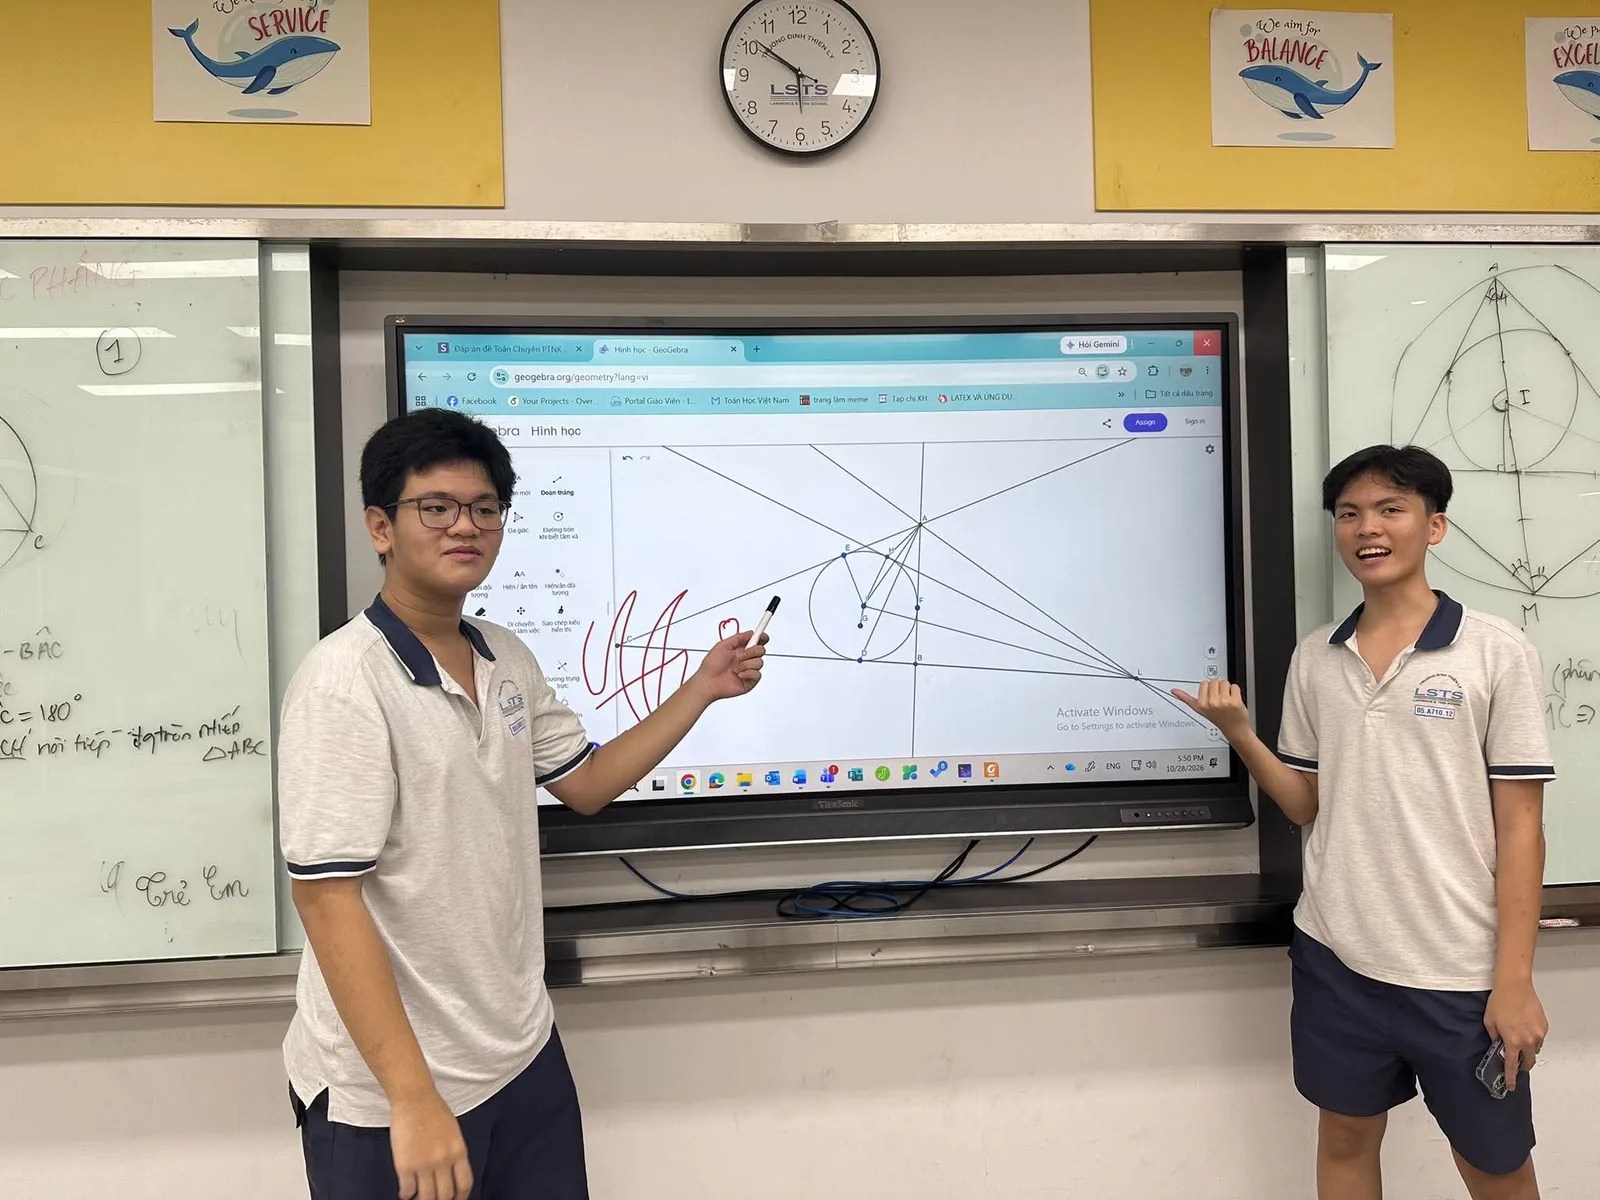
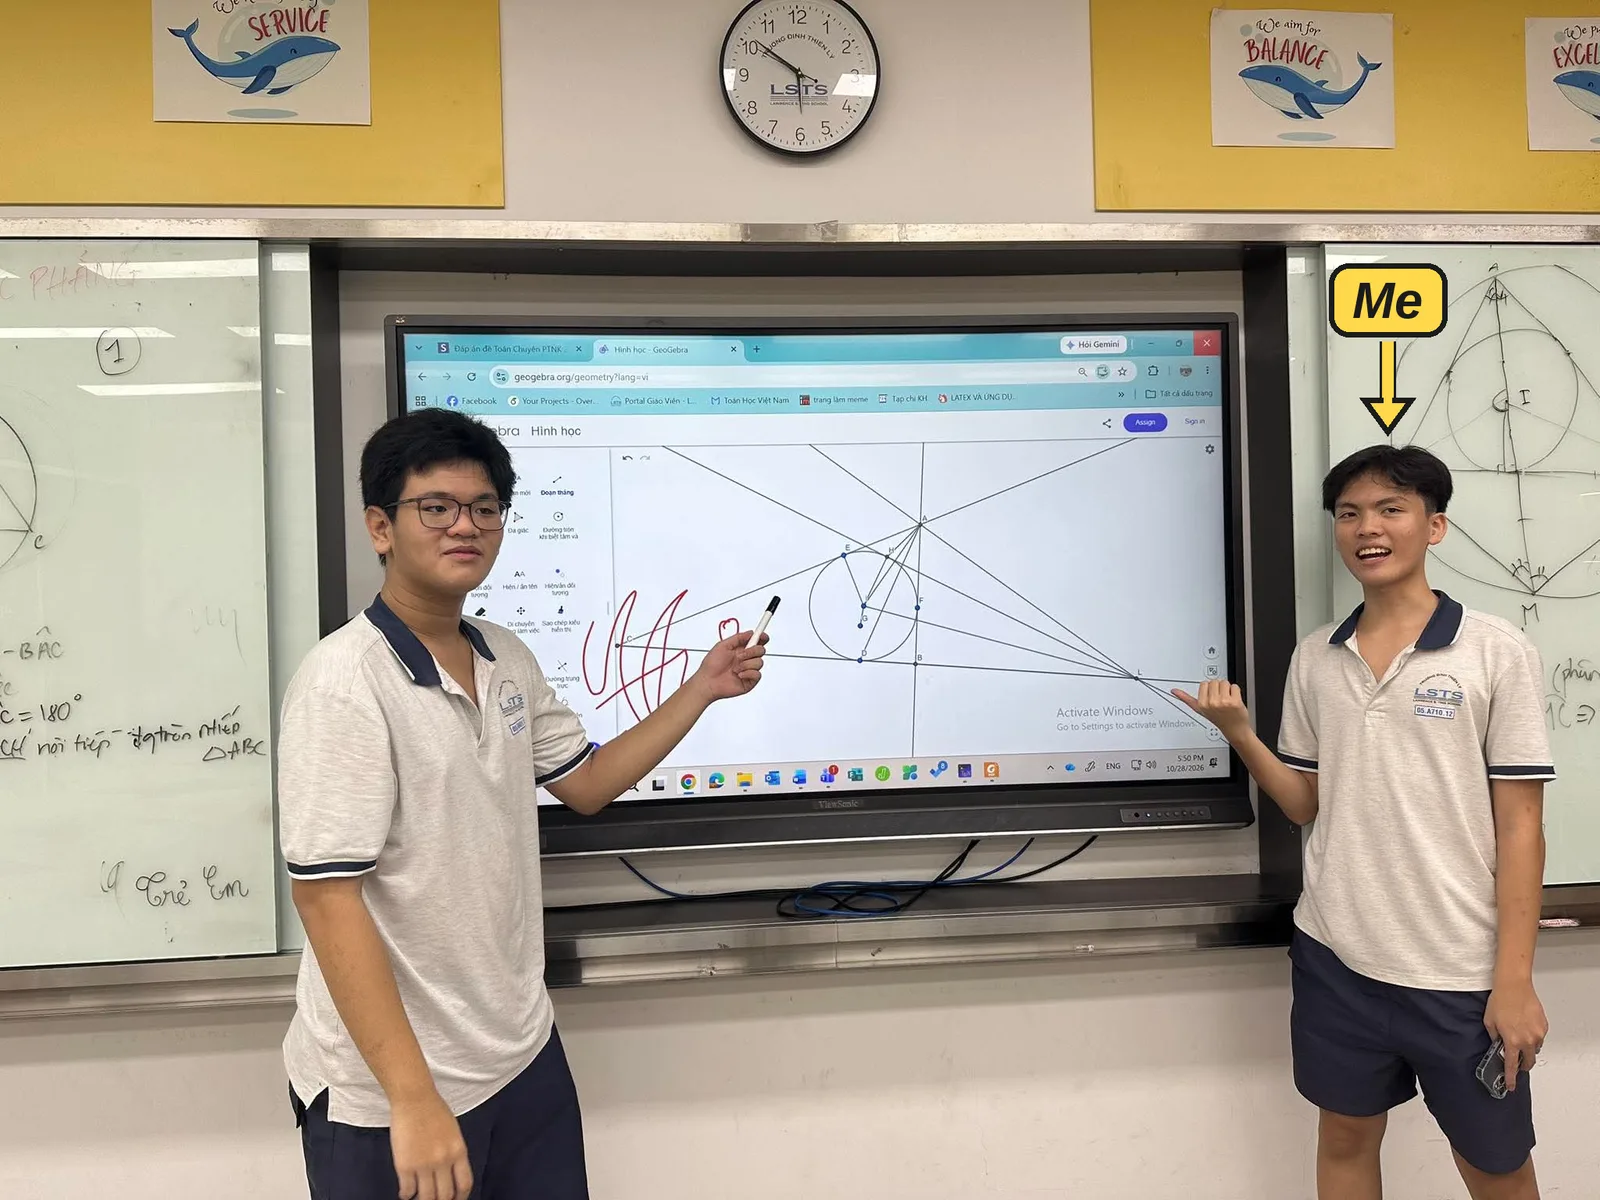
Mark Duy Anh in the maths photo
Claude-Session: https://claude.ai/code/session_01V13EuWFomHAgNhJYMy5oQf

Changed region(s): [[0.8125, 0.2158, 0.9062, 0.37]]

diff --git a/js/app.js b/js/app.js
@@ -343,7 +343,7 @@ const ITEMS = [
     ['Also', 'Olympiad prep: IMOCSEA · IMC'],
     ['Learned', G('One line in your own words.')]
   ],
-  media:[{label:'A maths session', src:'img/math.webp?v=c05e68dc', w:1600, h:1200, ratio:'4/3', alt:'Two students in LSTS uniforms pointing at a GeoGebra geometry construction on a large classroom screen, with circle diagrams drawn on the whiteboards on either side.', caption:'A maths session.'}], evidence:[], metrics:[], related:['imocsea','debate'] },
+  media:[{label:'A maths session', src:'img/math.webp?v=16da1615', w:1600, h:1200, ratio:'4/3', alt:'Duy Anh and a classmate in LSTS uniforms pointing at a GeoGebra geometry construction on a large classroom screen. A yellow arrow labelled “Me” points to Duy Anh, on the right.', caption:'A maths session. I’m on the right.'}], evidence:[], metrics:[], related:['imocsea','debate'] },
 
 { id:'debate', cat:'community', kind:'Debate', title:'House Adventure debate team', aliases:['debate','house adventure debate'],
   summary:'From too shy to speak, to team captain.',
@@ -1134,7 +1134,7 @@ function spot(o){
 function whereNext(list,cat){
   return `<section class="rm-sec rm-next" aria-label="Other rooms">${nextRoom(cat)}</section>`;
 }
-const PH={scres:{src:'img/scamcheck-result.webp?v=9f2ea80a',w:800,h:794,alt:'ScamCheck’s result screen in Vietnamese: a verdict card reading “An toàn” (safe), a “Đọc kết quả cho Bác” (read the result aloud) button, and three numbered steps to take right away: don’t click strange links, never share passwords or OTP codes, and call family or the official hotline. A side panel shows the detective character comparing warning signs.',cap:'The result screen, with a read-aloud button'},scteam:{src:'img/scamcheck-team.webp?v=0d37392f',w:1338,h:778,alt:'Four members of our team presenting ScamCheck on stage, in front of a slide that sums up the problem: online scams through SMS, Zalo, Messenger and email, especially targeting people over 45.',cap:'Presenting ScamCheck at the hackathon'},debate:{src:'img/debate.webp?v=b7b76d7d',w:1600,h:1066,alt:'Duy Anh with the junior debate team he mentored, six students at a table covered in notes, smiling and giving thumbs up. A yellow arrow labelled “Me” points to Duy Anh, second from the right.',cap:'The junior team I mentored · I’m second from the right'},math:{src:'img/math.webp?v=c05e68dc',w:1600,h:1200,alt:'Two students in LSTS uniforms pointing at a GeoGebra geometry construction on a large classroom screen, with circle diagrams drawn on the whiteboards on either side.',cap:'A maths session'},session:{src:'img/netmo-session.webp?v=c84fb89f',w:1600,h:1036,alt:'Nét Mơ volunteers with children holding up the cardboard artworks they made, including a whale, hearts and a house. The children’s faces are blurred.',cap:'A Nét Mơ workshop · children’s faces blurred'},team:{src:'img/netmo-team.webp?v=00a556c8',w:1600,h:1200,alt:'Some of the Nét Mơ team posing together for a selfie on a street in Ho Chi Minh City.',cap:'Part of the Nét Mơ team · there are more of us!'},care:{src:'img/carehome.webp?v=ea325d11',w:480,h:360,alt:'The Nét Mơ team outside the care home, holding a painting and making heart shapes with their hands.',cap:'At the care home'},draw:{src:'img/drawing.webp?v=994449b8',w:480,h:640,alt:'Two flowers drawn in pink and blue marker on white paper, made during our care-home session.',cap:'A drawing from our care-home session'}};
+const PH={scres:{src:'img/scamcheck-result.webp?v=9f2ea80a',w:800,h:794,alt:'ScamCheck’s result screen in Vietnamese: a verdict card reading “An toàn” (safe), a “Đọc kết quả cho Bác” (read the result aloud) button, and three numbered steps to take right away: don’t click strange links, never share passwords or OTP codes, and call family or the official hotline. A side panel shows the detective character comparing warning signs.',cap:'The result screen, with a read-aloud button'},scteam:{src:'img/scamcheck-team.webp?v=0d37392f',w:1338,h:778,alt:'Four members of our team presenting ScamCheck on stage, in front of a slide that sums up the problem: online scams through SMS, Zalo, Messenger and email, especially targeting people over 45.',cap:'Presenting ScamCheck at the hackathon'},debate:{src:'img/debate.webp?v=b7b76d7d',w:1600,h:1066,alt:'Duy Anh with the junior debate team he mentored, six students at a table covered in notes, smiling and giving thumbs up. A yellow arrow labelled “Me” points to Duy Anh, second from the right.',cap:'The junior team I mentored · I’m second from the right'},math:{src:'img/math.webp?v=16da1615',w:1600,h:1200,alt:'Duy Anh and a classmate in LSTS uniforms pointing at a GeoGebra geometry construction on a large classroom screen. A yellow arrow labelled “Me” points to Duy Anh, on the right.',cap:'A maths session · I’m on the right'},session:{src:'img/netmo-session.webp?v=c84fb89f',w:1600,h:1036,alt:'Nét Mơ volunteers with children holding up the cardboard artworks they made, including a whale, hearts and a house. The children’s faces are blurred.',cap:'A Nét Mơ workshop · children’s faces blurred'},team:{src:'img/netmo-team.webp?v=00a556c8',w:1600,h:1200,alt:'Some of the Nét Mơ team posing together for a selfie on a street in Ho Chi Minh City.',cap:'Part of the Nét Mơ team · there are more of us!'},care:{src:'img/carehome.webp?v=ea325d11',w:480,h:360,alt:'The Nét Mơ team outside the care home, holding a painting and making heart shapes with their hands.',cap:'At the care home'},draw:{src:'img/drawing.webp?v=994449b8',w:480,h:640,alt:'Two flowers drawn in pink and blue marker on white paper, made during our care-home session.',cap:'A drawing from our care-home session'}};
 const IMG=src=>{ for(const it of ITEMS){ for(const m of (it.media||[])) if(m.src===src) return m; if(it.story) for(const f of it.story.features) if(f.img&&f.img.src===src) return f.img; } return null; };
 const STRIP=(src,cap)=>{ const m=IMG(src); return {src,w:m.w,h:m.h,alt:m.alt,cap}; };
 

diff --git a/index.html b/index.html
@@ -118,6 +118,6 @@
   </div>
 </dialog>
 <dialog id="hatch" aria-labelledby="hatch-h"><div class="hatch-in" id="hatch-in"></div></dialog>
-<script src="js/app.js?v=bfda4aed"></script>
+<script src="js/app.js?v=86d21dff"></script>
 </body>
 </html>
